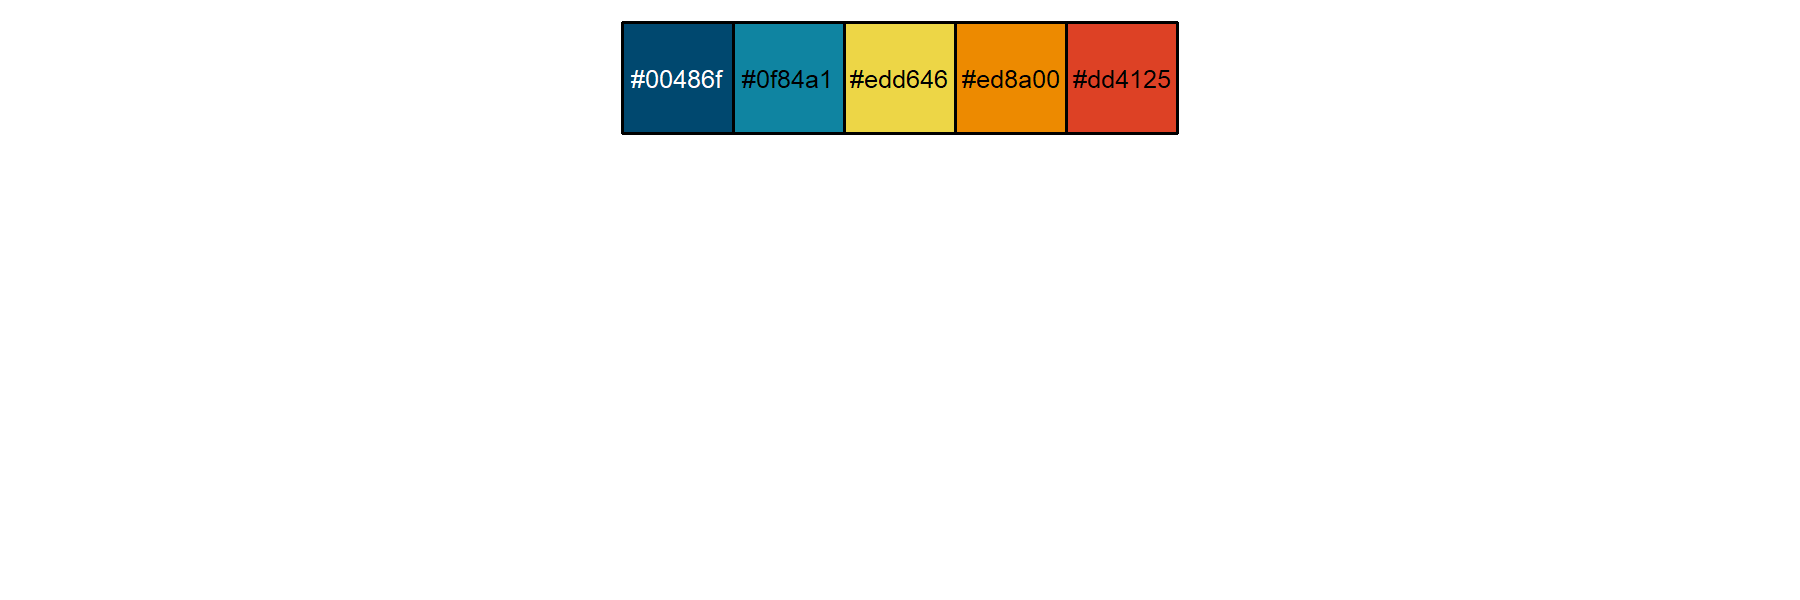
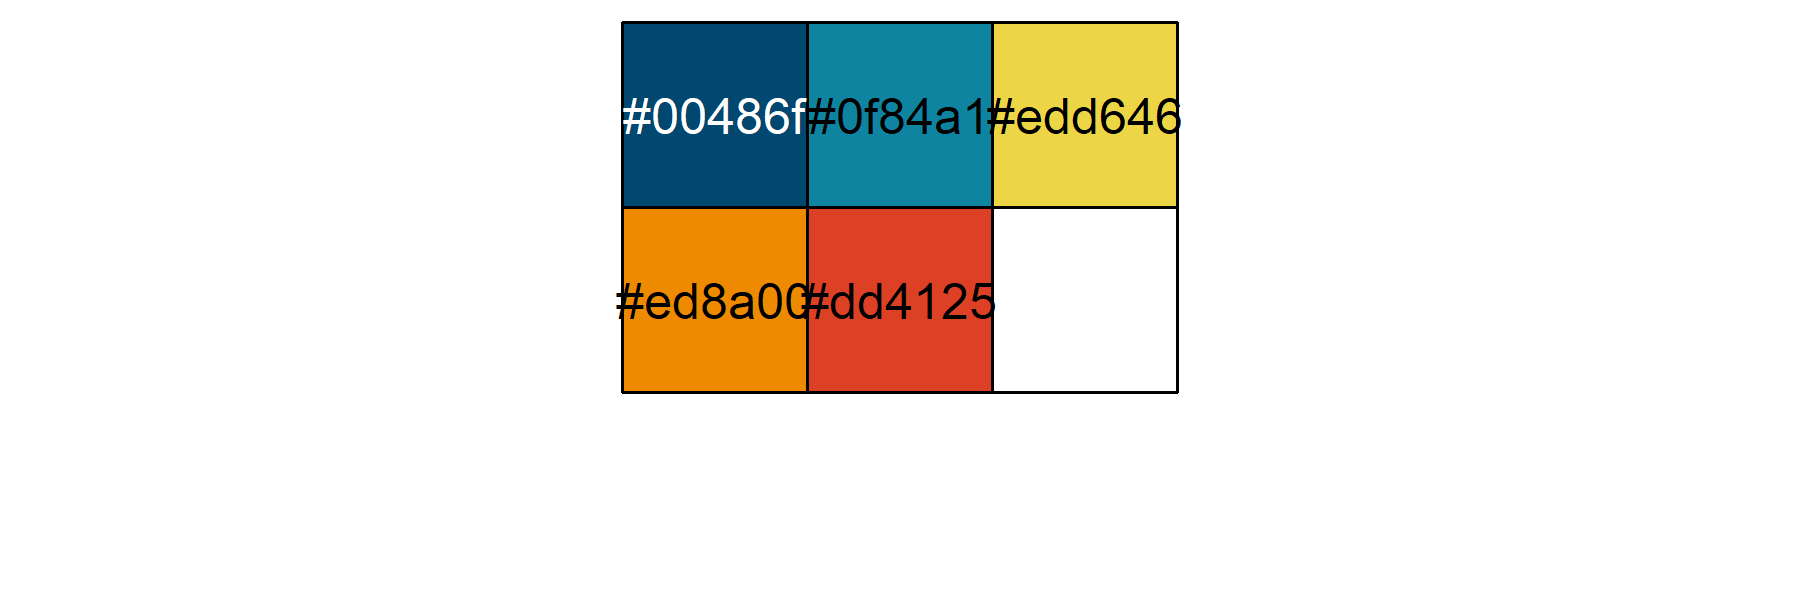
Applied styler::style_pgk()

Changed region(s): [[0.3422, 0.03, 0.6533, 0.66]]

diff --git a/README.md b/README.md
@@ -75,16 +75,10 @@ test <- scales::show_col(td_pal(palette = "pastel6")())
 A diverging blue-to-red palette:
 
 ``` r
-scales::show_col(td_pal(palette = "div5")(), cex_label = 0.5, ncol = 5)
+scales::show_col(td_pal(palette = "div5")())
 ```
 
 ![](man/figures/README-div5_palette-1.png)<!-- -->
-
-``` r
-scales::show_col(td_pal(palette = "div5")(), cex_label = 0.4, ncol = 5)
-```
-
-![](man/figures/README-div5_palette2-1.png)<!-- -->
 
 ## Scales
 
